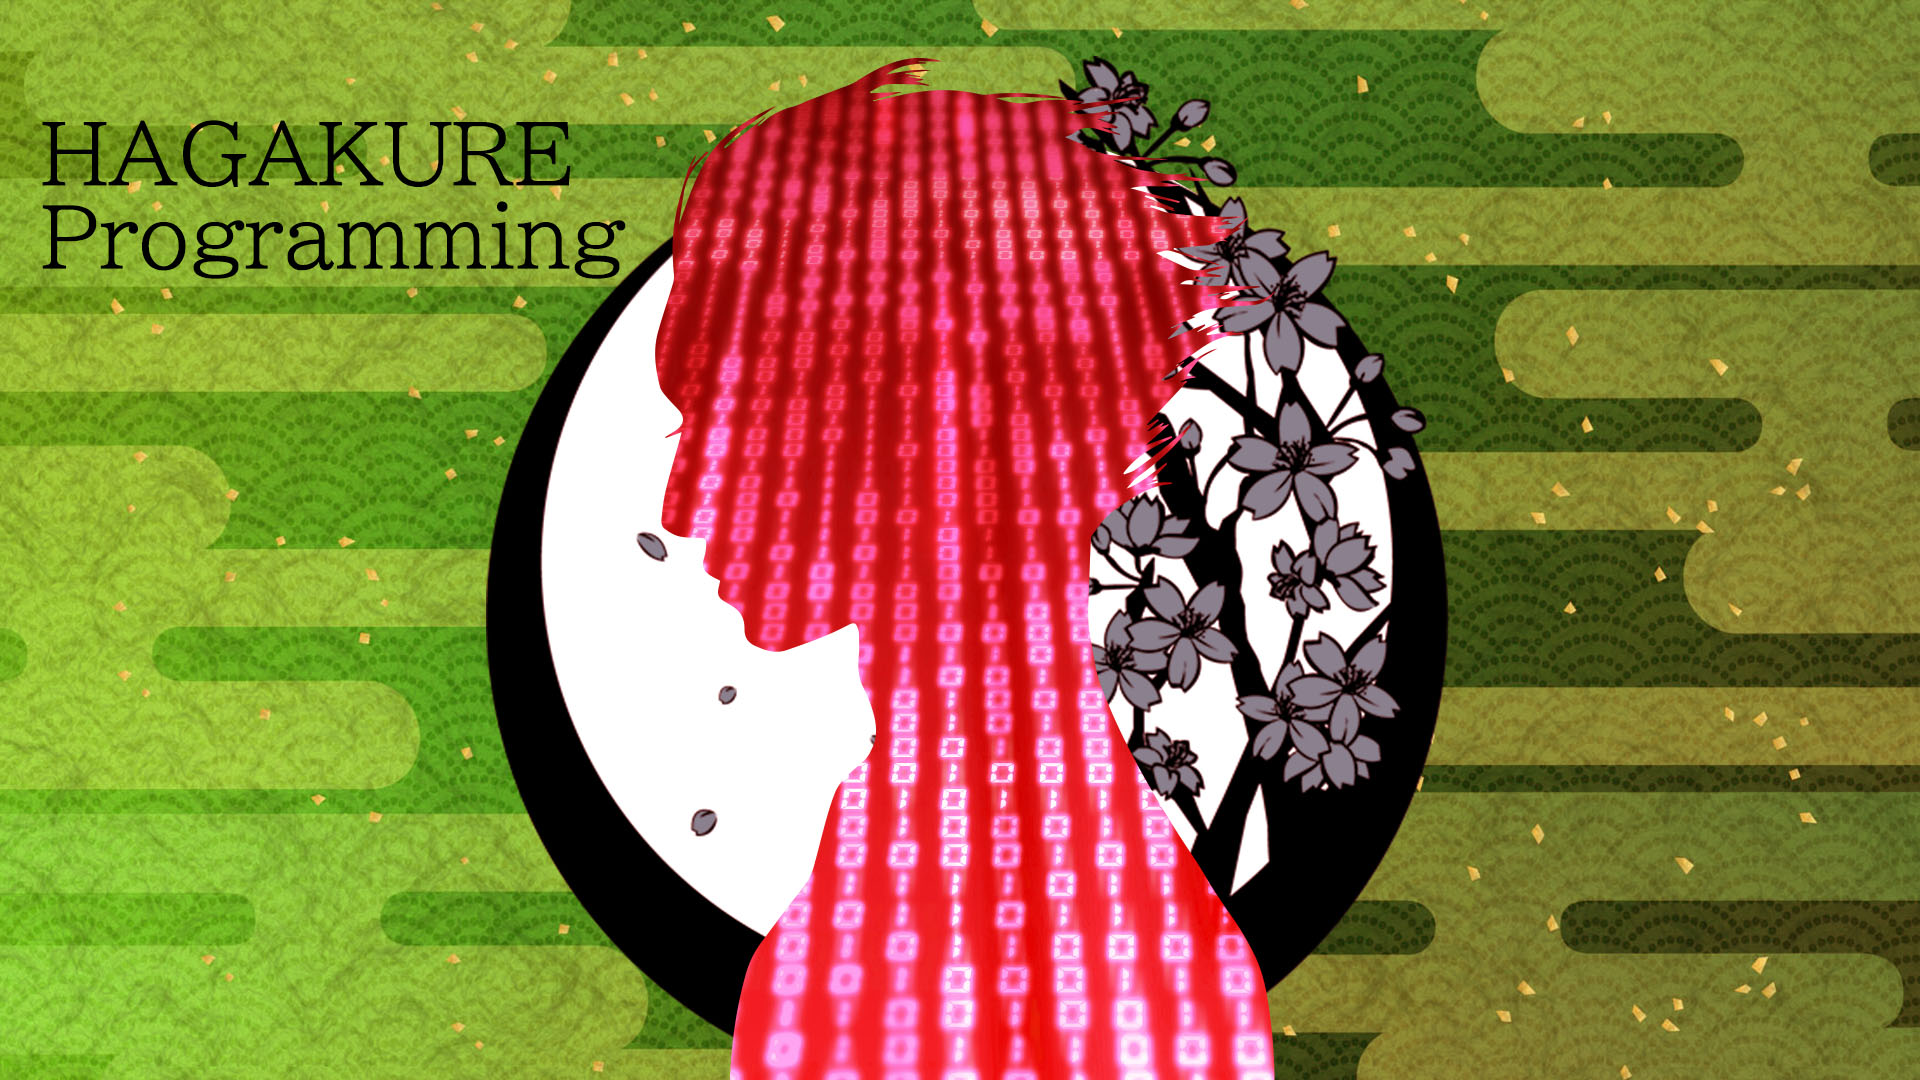
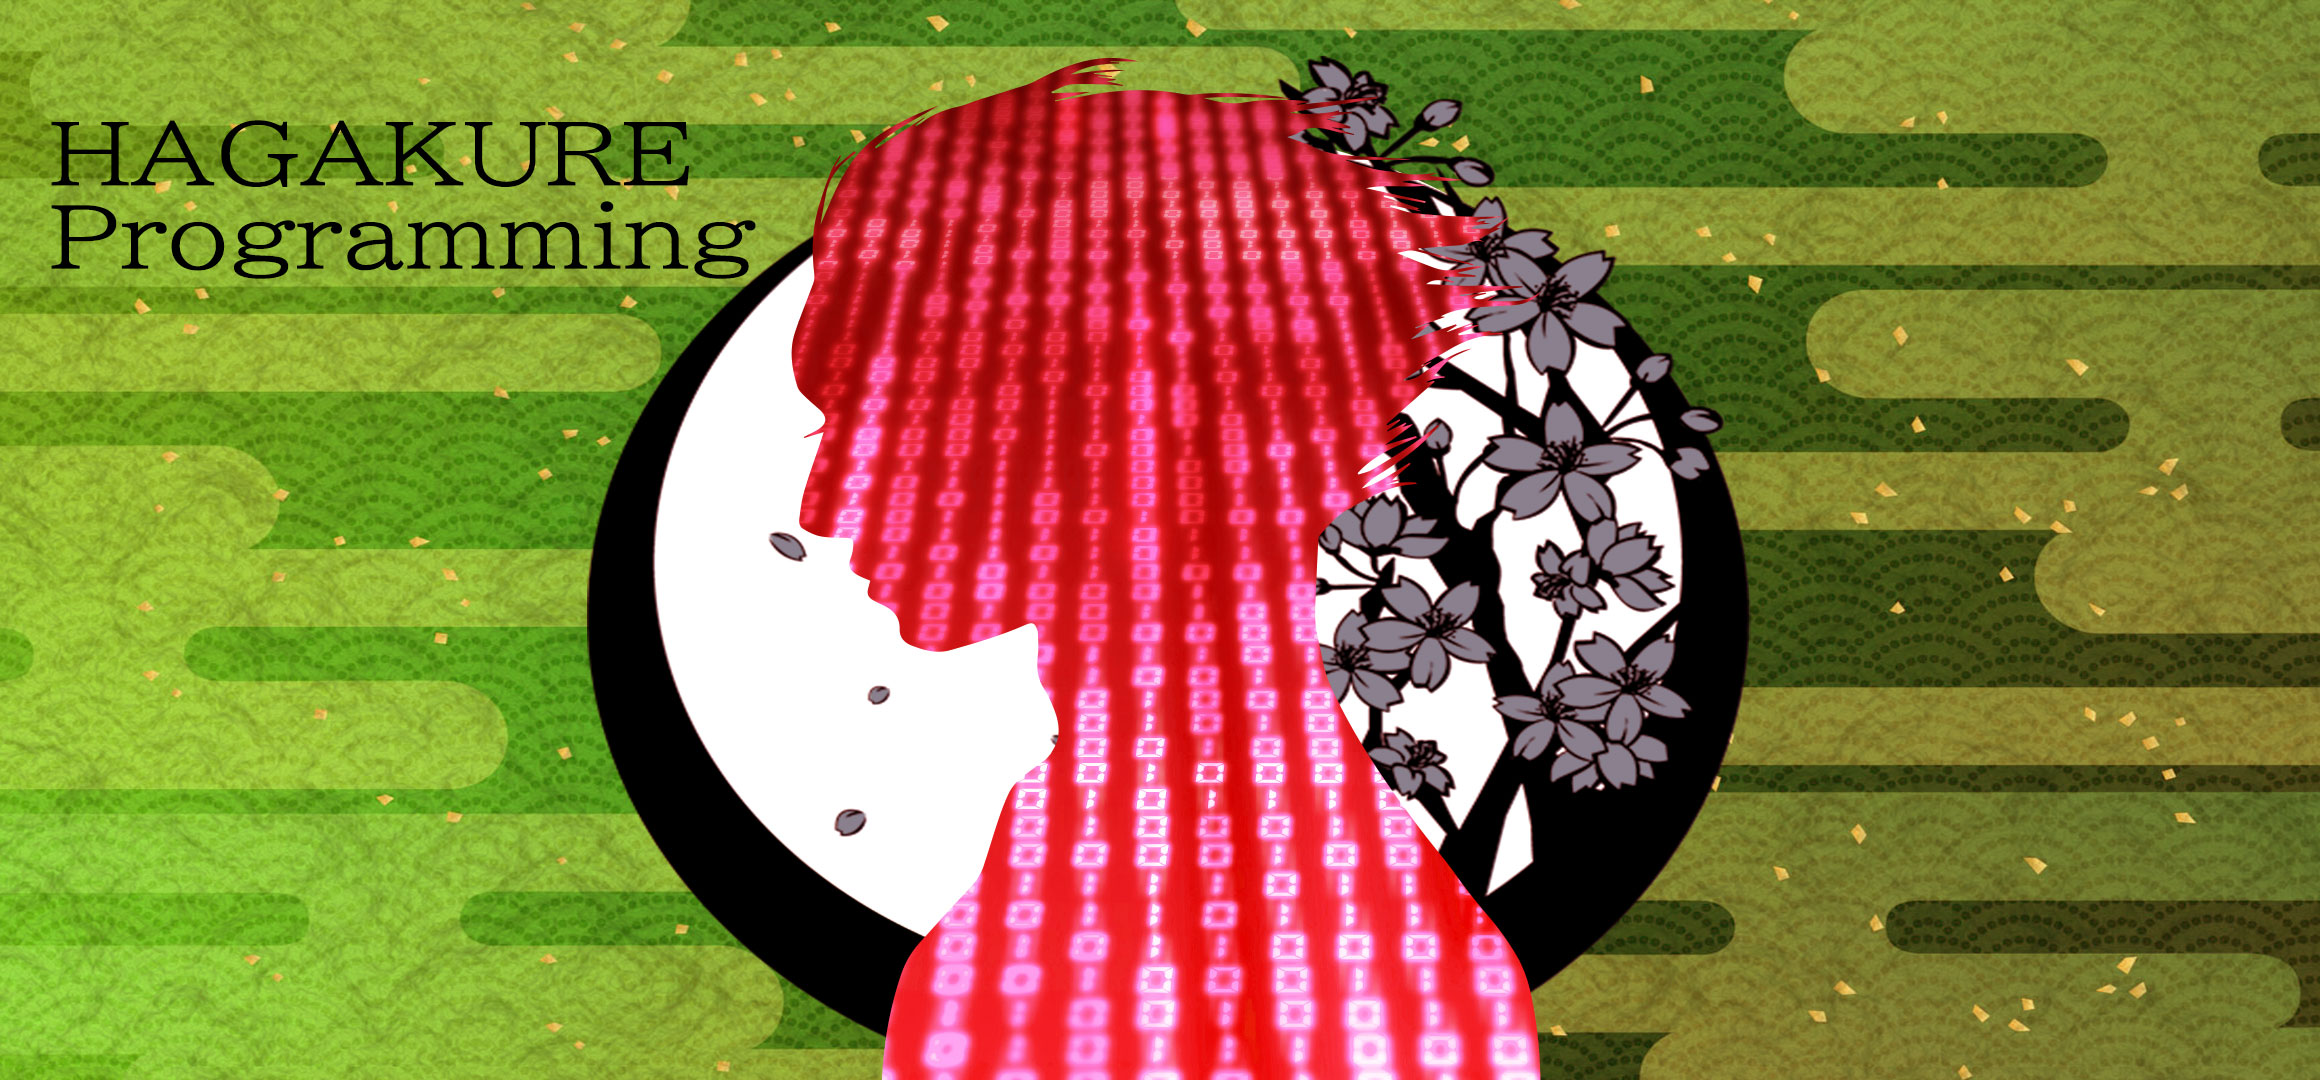
スマホデザインに「塾」の文字追加

diff --git a/index.html b/index.html
@@ -95,7 +95,7 @@
             <img src="static/images/top2.jpg" class="d-block w-100" alt="top2.jpg">
           </div>
           <div class="carousel-item" data-bs-interval="7000">
-            <img src="static/images/kenshi.png" class="d-block w-100" alt="kenshi.png">
+            <img src="static/images/kenshi.jpg" class="d-block w-100" alt="kenshi.jpg">
           </div>
         </div>
       </div>
